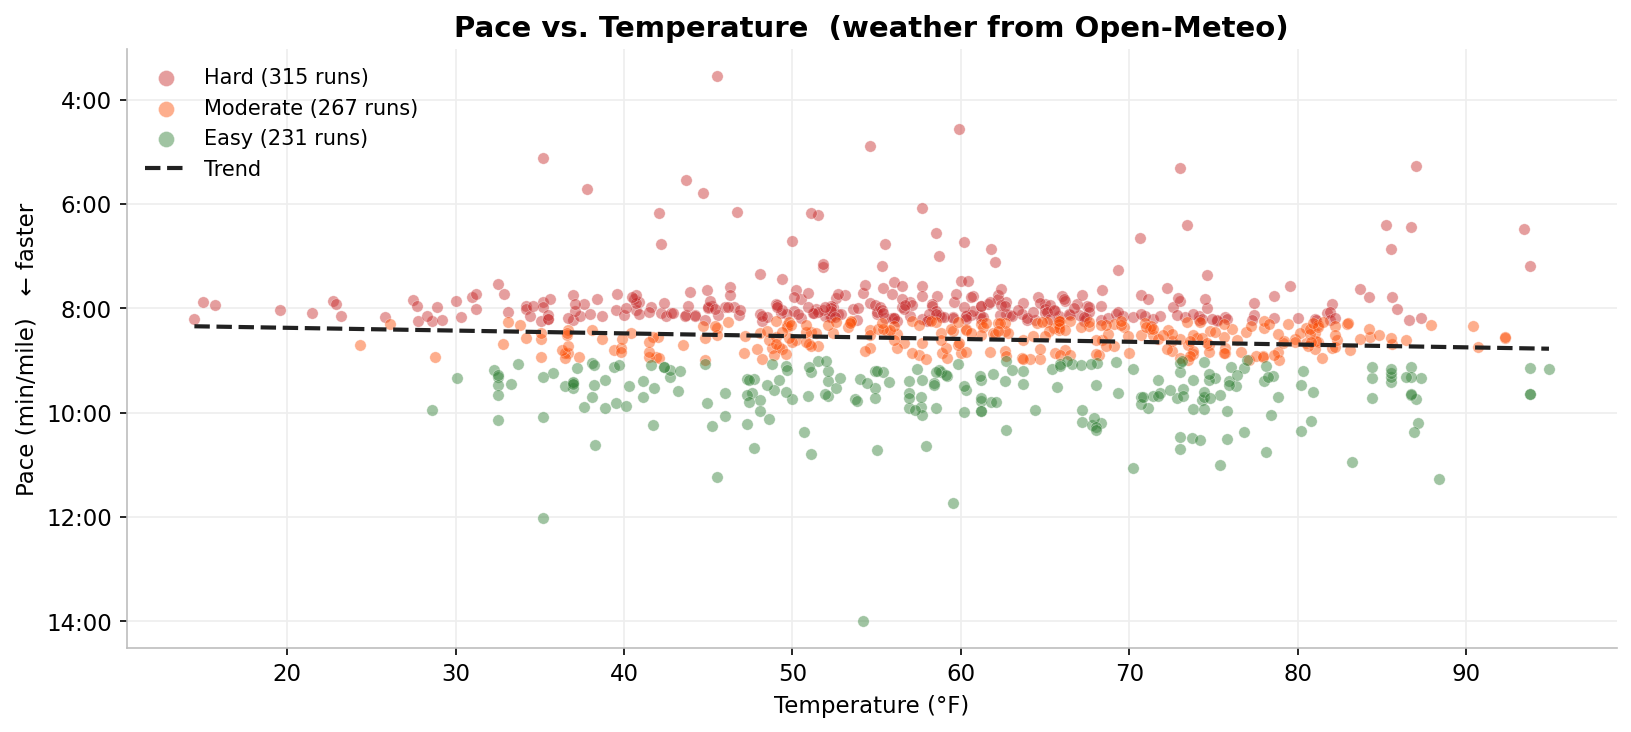
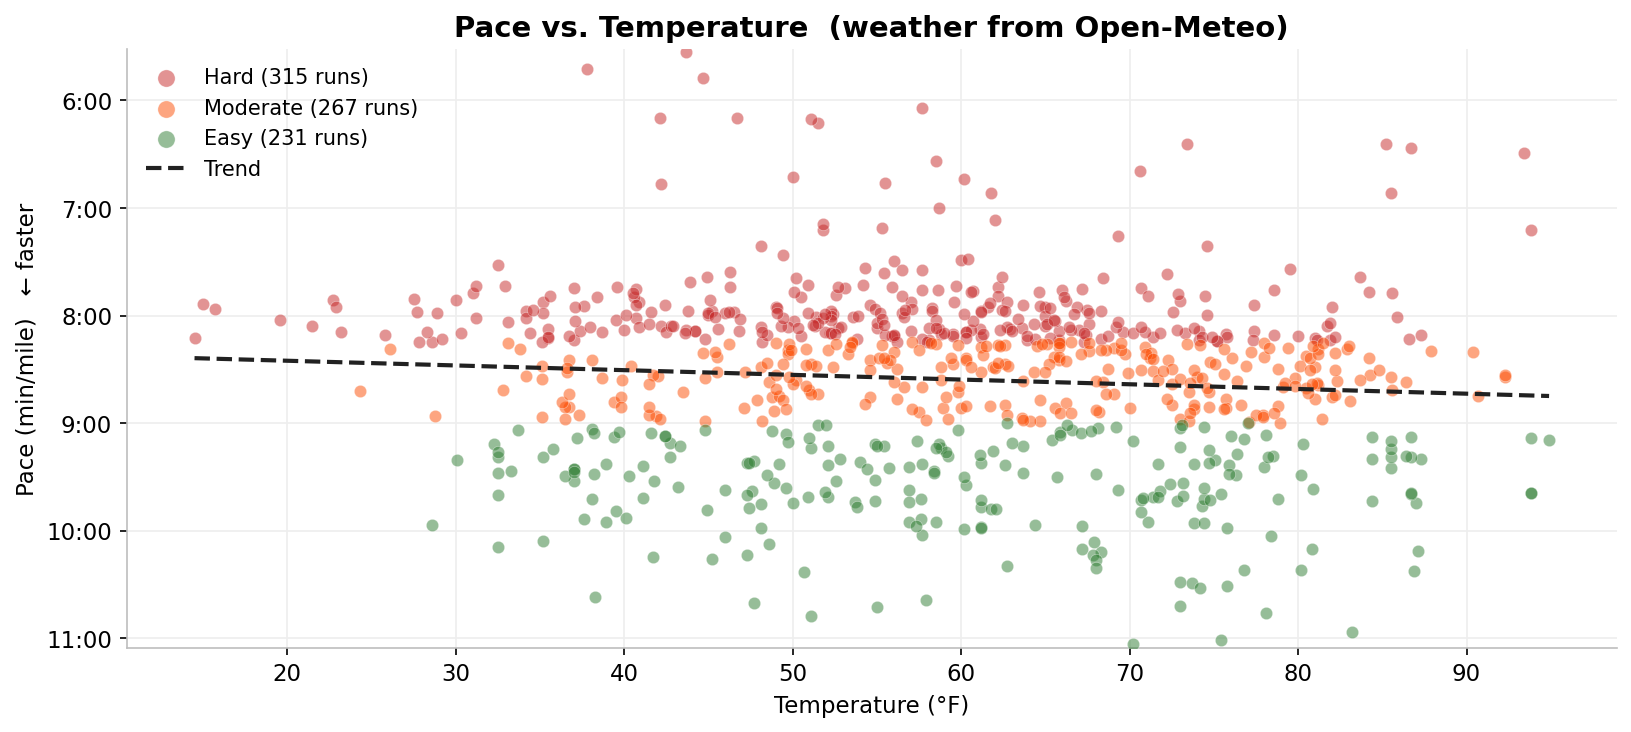
Clip pace axis to 1st-99th percentile on scatter plots

diff --git a/src/visualize.py b/src/visualize.py
@@ -197,8 +197,10 @@ def plot_pace_over_time(runs: pd.DataFrame) -> None:
         ax.plot(smooth.index, smooth, color=DARK, linewidth=2.2,
                 label="30-day avg", zorder=4)
 
-    # Flip y-axis: lower number = faster = visually "higher"
+    p_lo = runs["pace_min_per_mile"].quantile(0.01)
+    p_hi = runs["pace_min_per_mile"].quantile(0.99)
     ax.invert_yaxis()
+    ax.set_ylim(p_hi + 0.3, p_lo - 0.3)
     ax.yaxis.set_major_formatter(mticker.FuncFormatter(_pace_fmt))
     ax.set_title("Pace Over Time  (dot size ∝ distance · colour = effort level)")
     ax.set_ylabel("Pace (min/mile)   ← faster")
@@ -213,22 +215,29 @@ def plot_pace_vs_temp(runs: pd.DataFrame) -> None:
     """Scatter of pace vs temperature, coloured by effort, with a trend line."""
     geo = runs[runs["temperature_f"].notna()].copy()
 
+    # Clip y-axis to the 1st–99th percentile so outliers don't squash the view
+    p_lo = geo["pace_min_per_mile"].quantile(0.01)
+    p_hi = geo["pace_min_per_mile"].quantile(0.99)
+
     fig, ax = plt.subplots(figsize=(11, 5))
 
     for effort in EFFORT_ORDER:
         sub = geo[geo["effort"] == effort]
         ax.scatter(sub["temperature_f"], sub["pace_min_per_mile"],
-                   color=EFFORT_COLORS[effort], alpha=0.45, s=30,
+                   color=EFFORT_COLORS[effort], alpha=0.5, s=35,
                    edgecolors="white", linewidths=0.3,
                    label=f"{effort} ({len(sub)} runs)", zorder=3)
 
-    # Linear trend across all runs
-    z = np.polyfit(geo["temperature_f"], geo["pace_min_per_mile"], 1)
+    # Trend line fitted on the clipped data only so one extreme run
+    # doesn't pull the slope
+    clipped = geo[geo["pace_min_per_mile"].between(p_lo, p_hi)]
+    z = np.polyfit(clipped["temperature_f"], clipped["pace_min_per_mile"], 1)
     x_line = np.linspace(geo["temperature_f"].min(), geo["temperature_f"].max(), 200)
     ax.plot(x_line, np.poly1d(z)(x_line),
             color=DARK, linewidth=2, linestyle="--", label="Trend", zorder=4)
 
     ax.invert_yaxis()
+    ax.set_ylim(p_hi + 0.3, p_lo - 0.3)   # inverted axis: slower at bottom
     ax.yaxis.set_major_formatter(mticker.FuncFormatter(_pace_fmt))
     ax.set_title("Pace vs. Temperature  (weather from Open-Meteo)")
     ax.set_xlabel("Temperature (°F)")